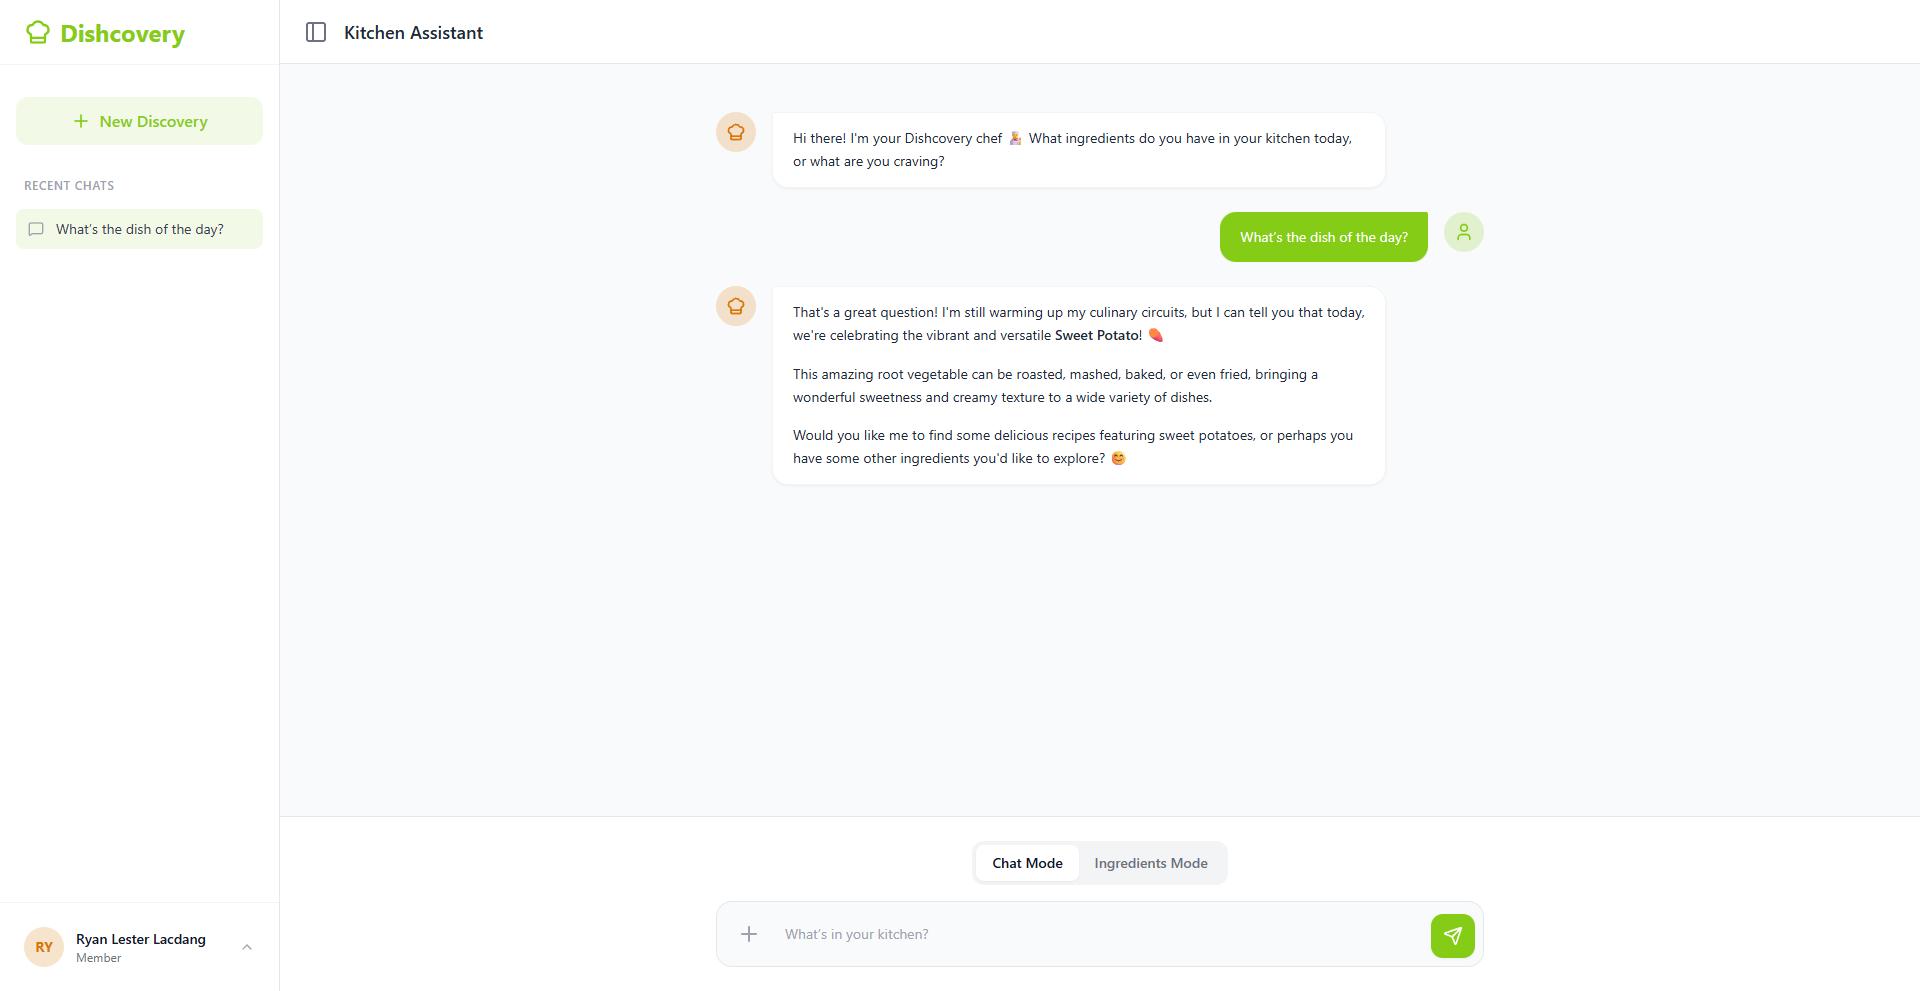
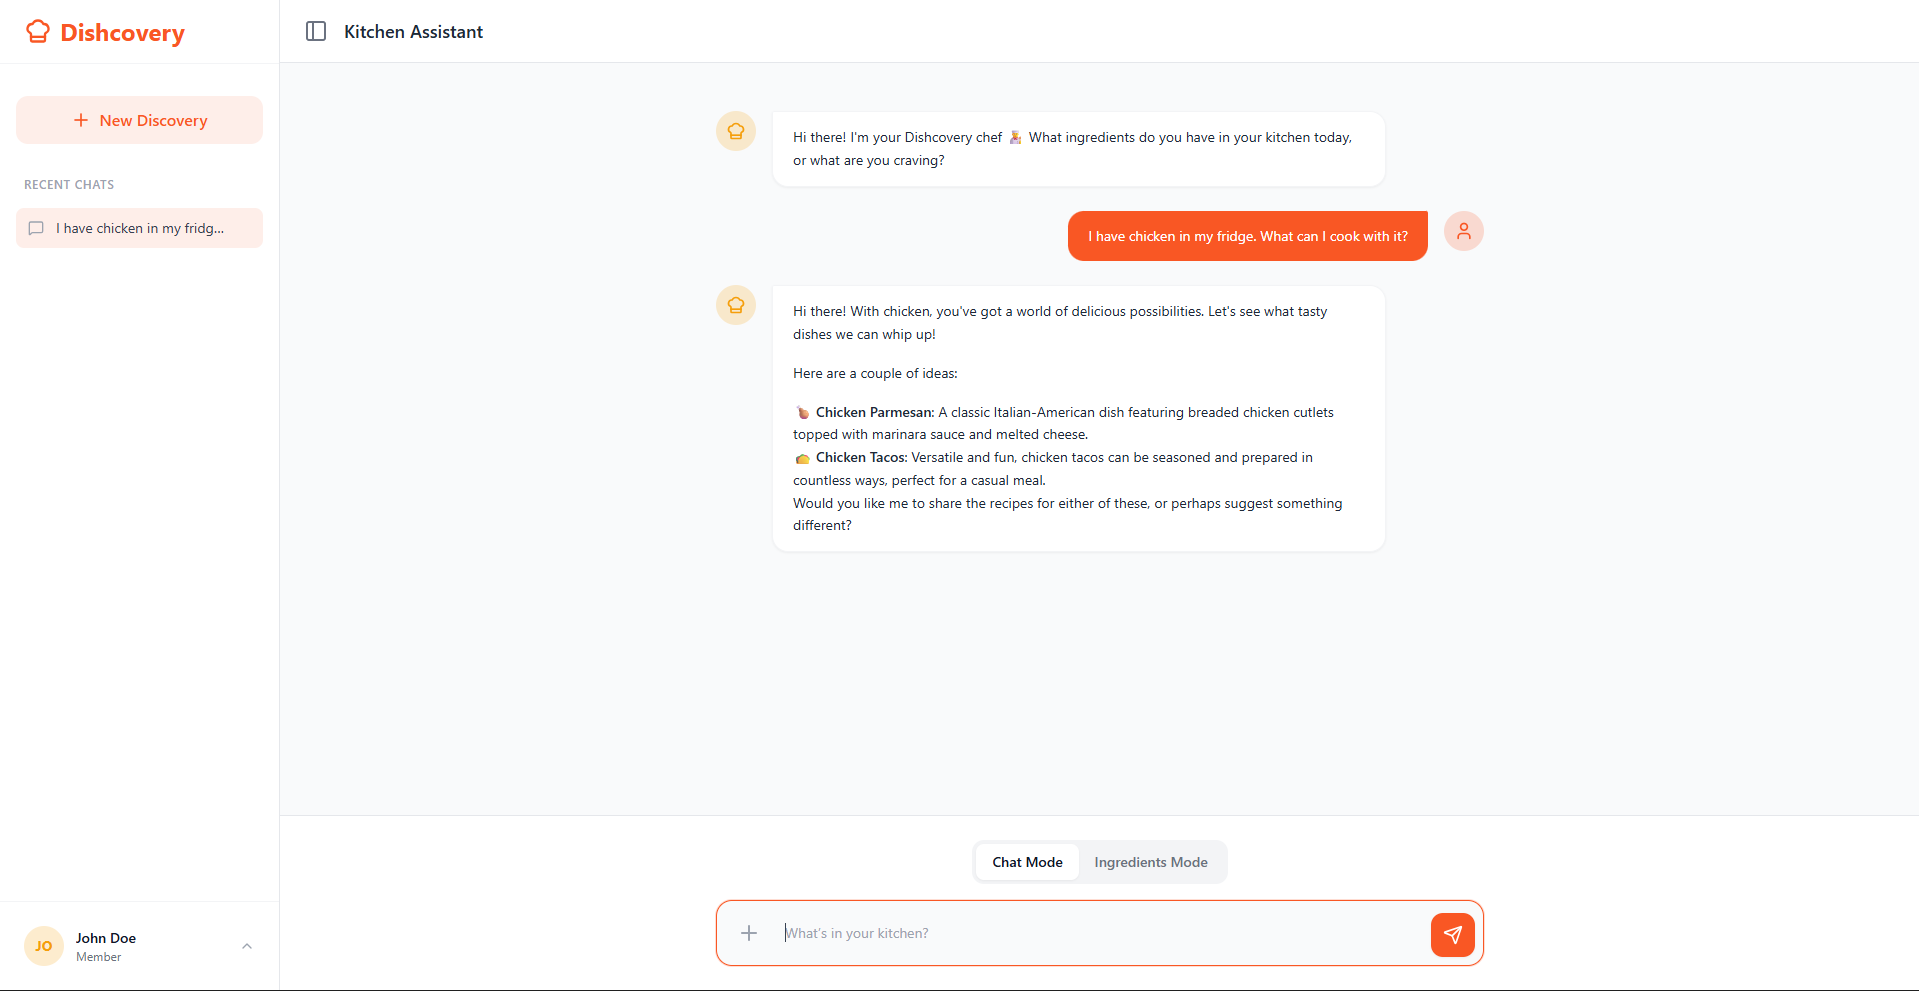
docs(setup): update README migration instructions, .env.example, and screenshot assets

diff --git a/README.md b/README.md
@@ -98,7 +98,30 @@ GEMINI_API_KEY=your_gemini_api_key
 MEALDB_BASE_URL=https://www.themealdb.com/api/json/v1/1/
 ```
 
-### 4. Run the application
+### 4. Database Setup & Migration
+1. Ensure your **MySQL Server** is running and create the database:
+   ```sql
+   CREATE DATABASE dishcovery_db;
+   ```
+
+2. Create the tables in MySQL using Python:
+   * **Start Python in your terminal**:
+     ```bash
+     python
+     ```
+   * **Run these lines**:
+     ```python
+     from app import create_app, db
+
+     app = create_app()
+
+     with app.app_context():
+         db.create_all()
+
+     exit()
+     ```
+
+### 5. Run the application
 ```bash
 python run.py
 ```
@@ -106,5 +129,5 @@ python run.py
 ---
 
 <div align="center">
-  <p>Dishcovery © 2026</p>
+  <sub>© 2026 Dishcovery. All rights reserved.</sub>
 </div>
